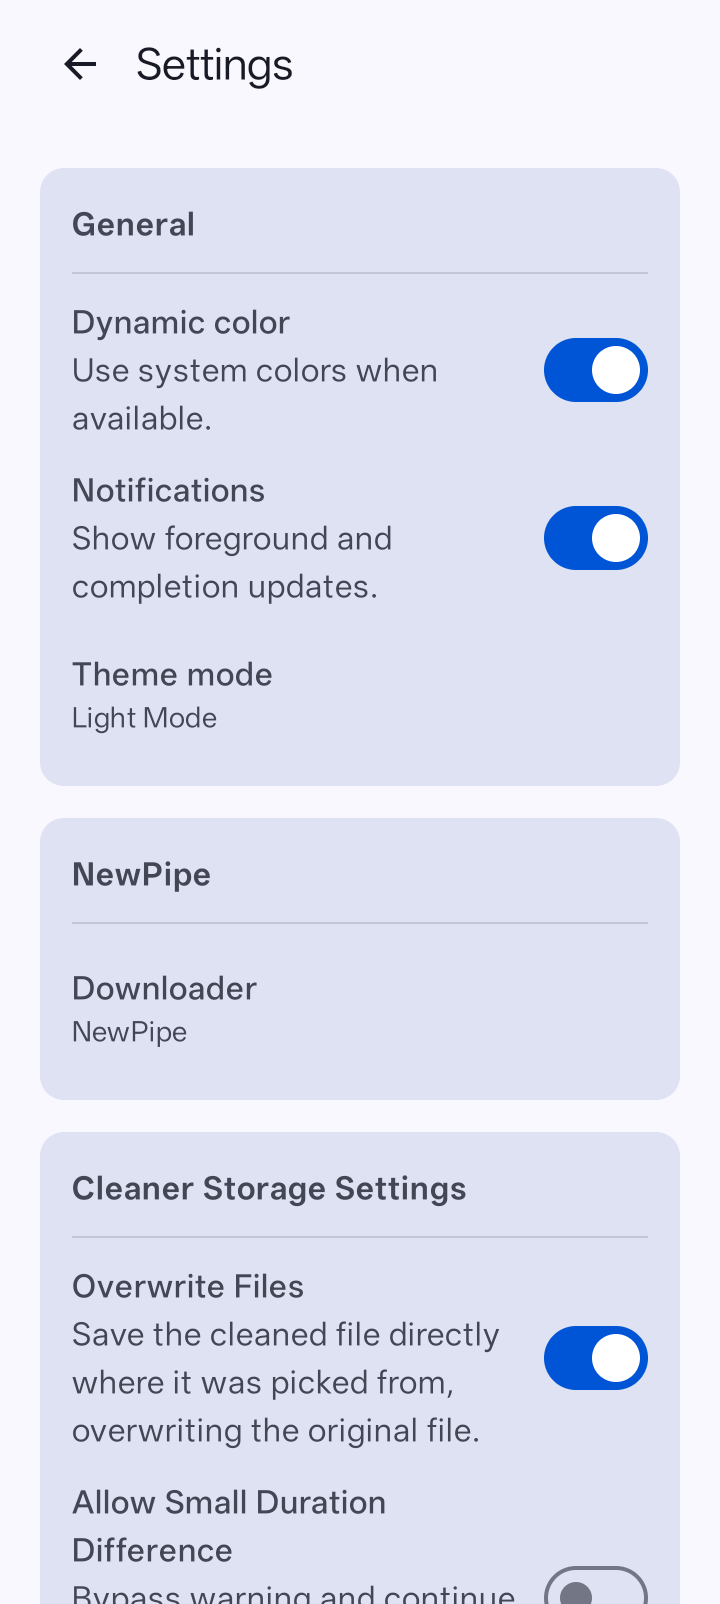
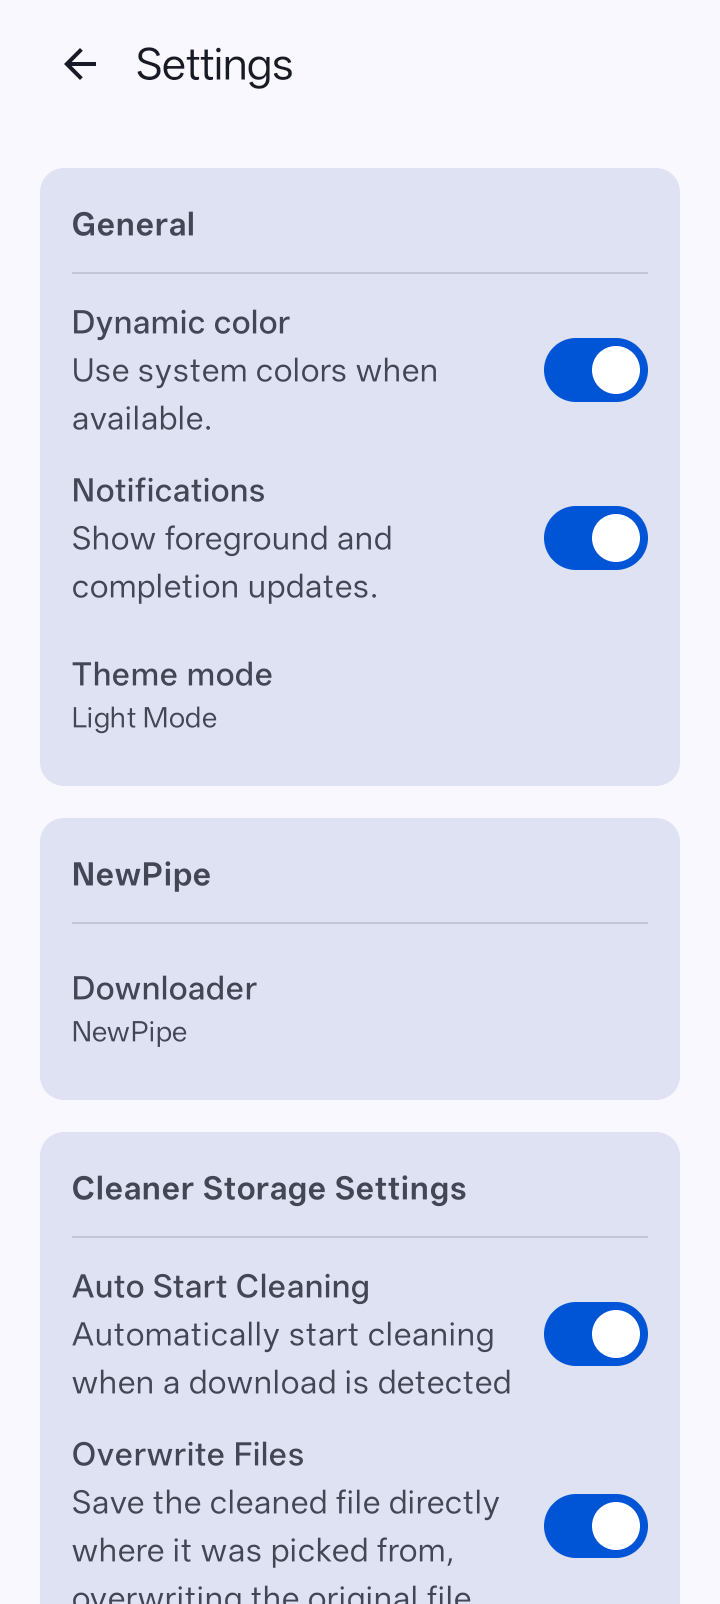
chore: bump version to v1.6.0

diff --git a/CHANGELOG.md b/CHANGELOG.md
@@ -4,6 +4,23 @@ All notable changes to this project will be documented in this file.
 
 ---
 
+## [1.6.0] - 2026-07-13
+
+### Added
+
+- a9e58e3  feat: add relativePath support and permission revoked dialog for folder access
+- 217e4a7  feat: add auto start cleaning feature with corresponding settings
+- e048dcb  feat: enhance screenshot tests with scrolling functionality for settings section
+
+### Documentation
+
+- c1f549d  docs: update README to include download instructions and repository URL
+
+### Maintenance
+
+- 67feab5  chore: remove x86 apk build
+- 85530bc  chore: add dependabot and mergify configuration files
+
 ## [1.5.0] - 2026-07-04
 
 ### Fixed
